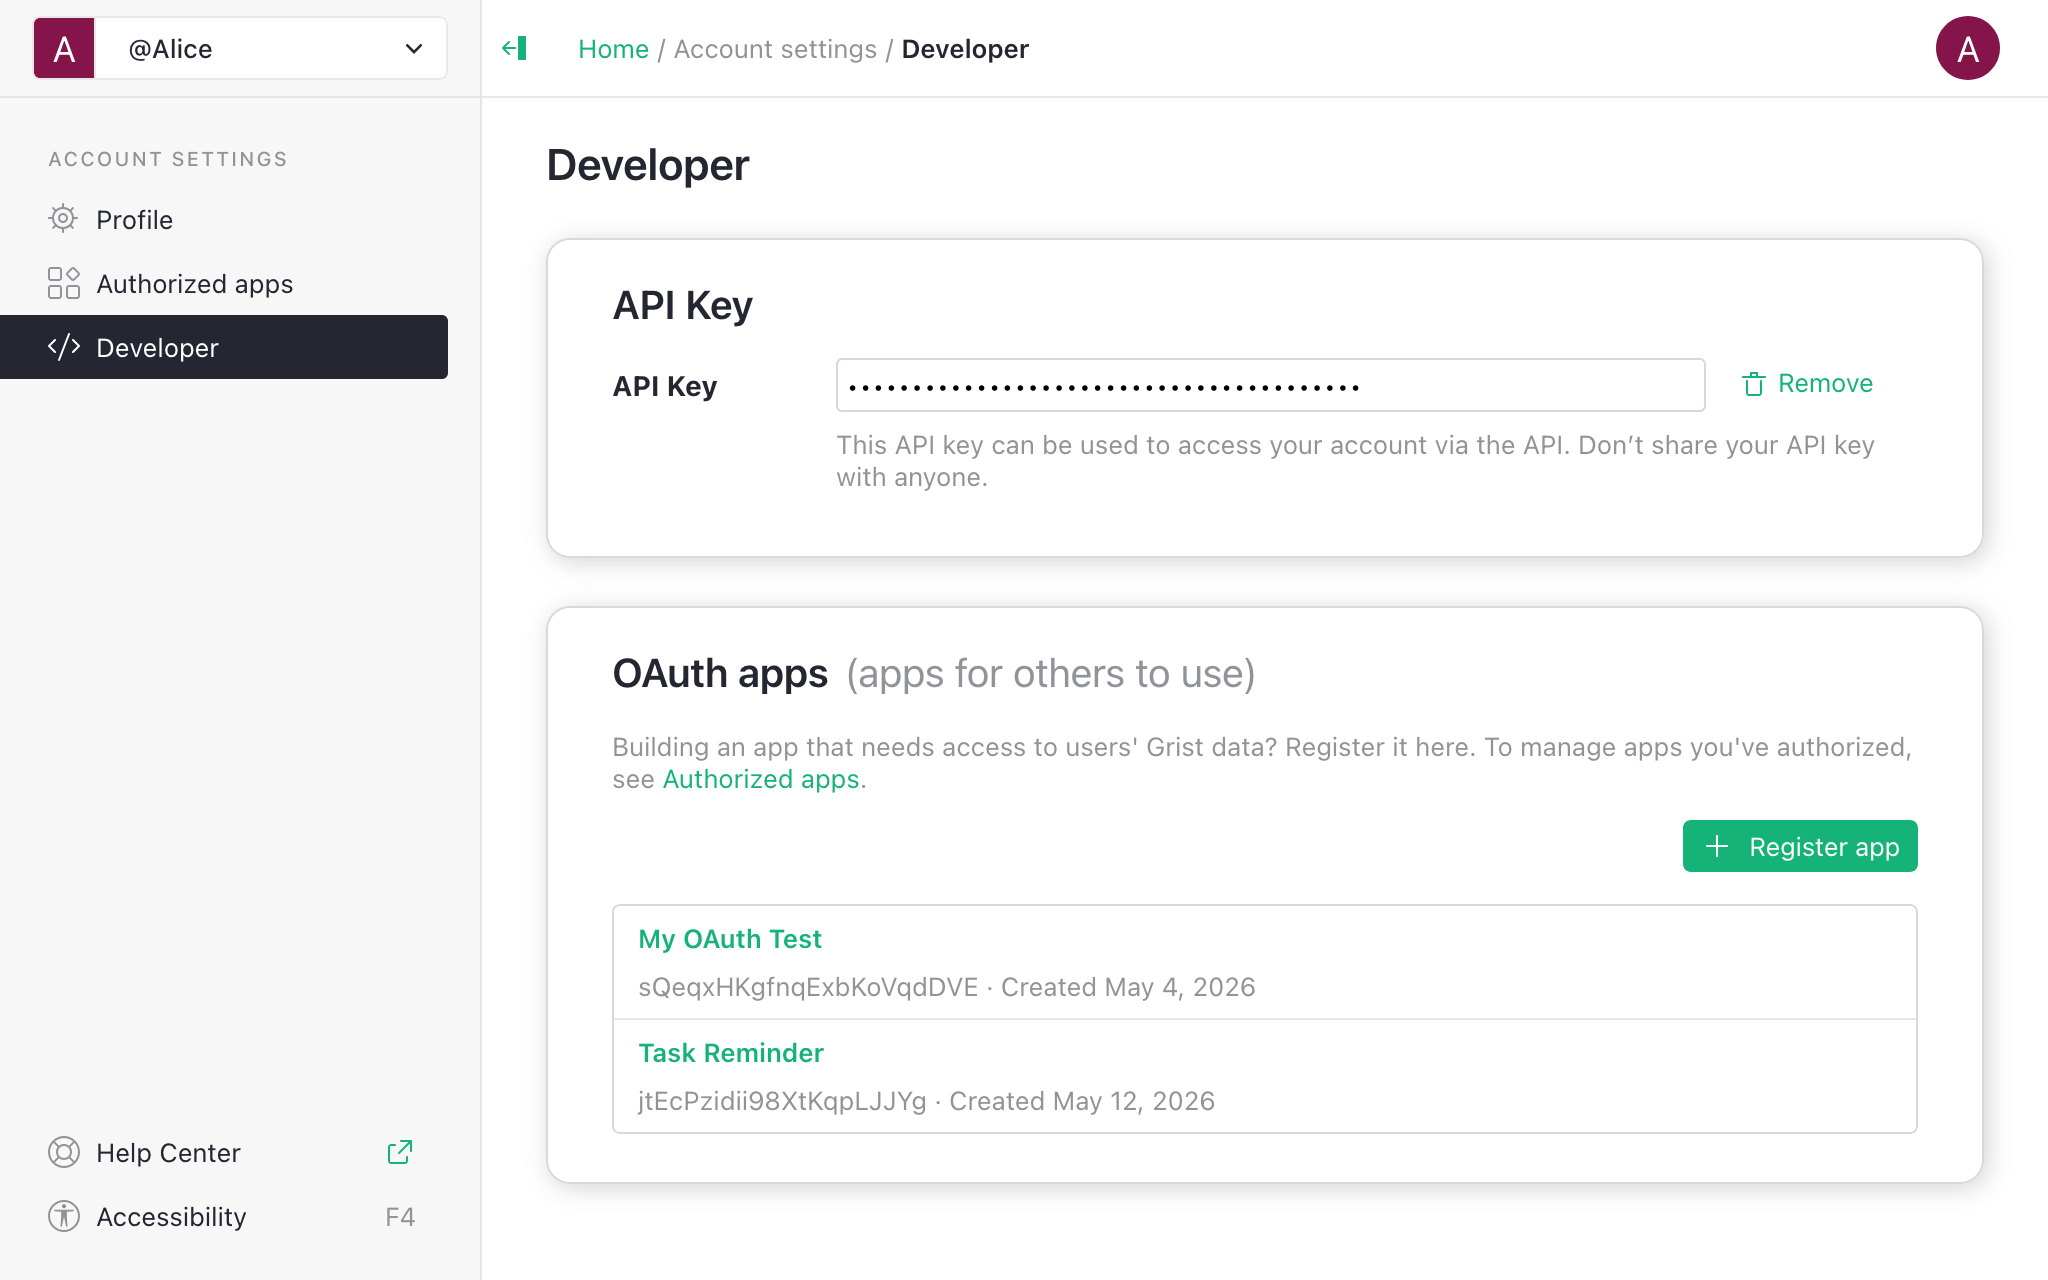
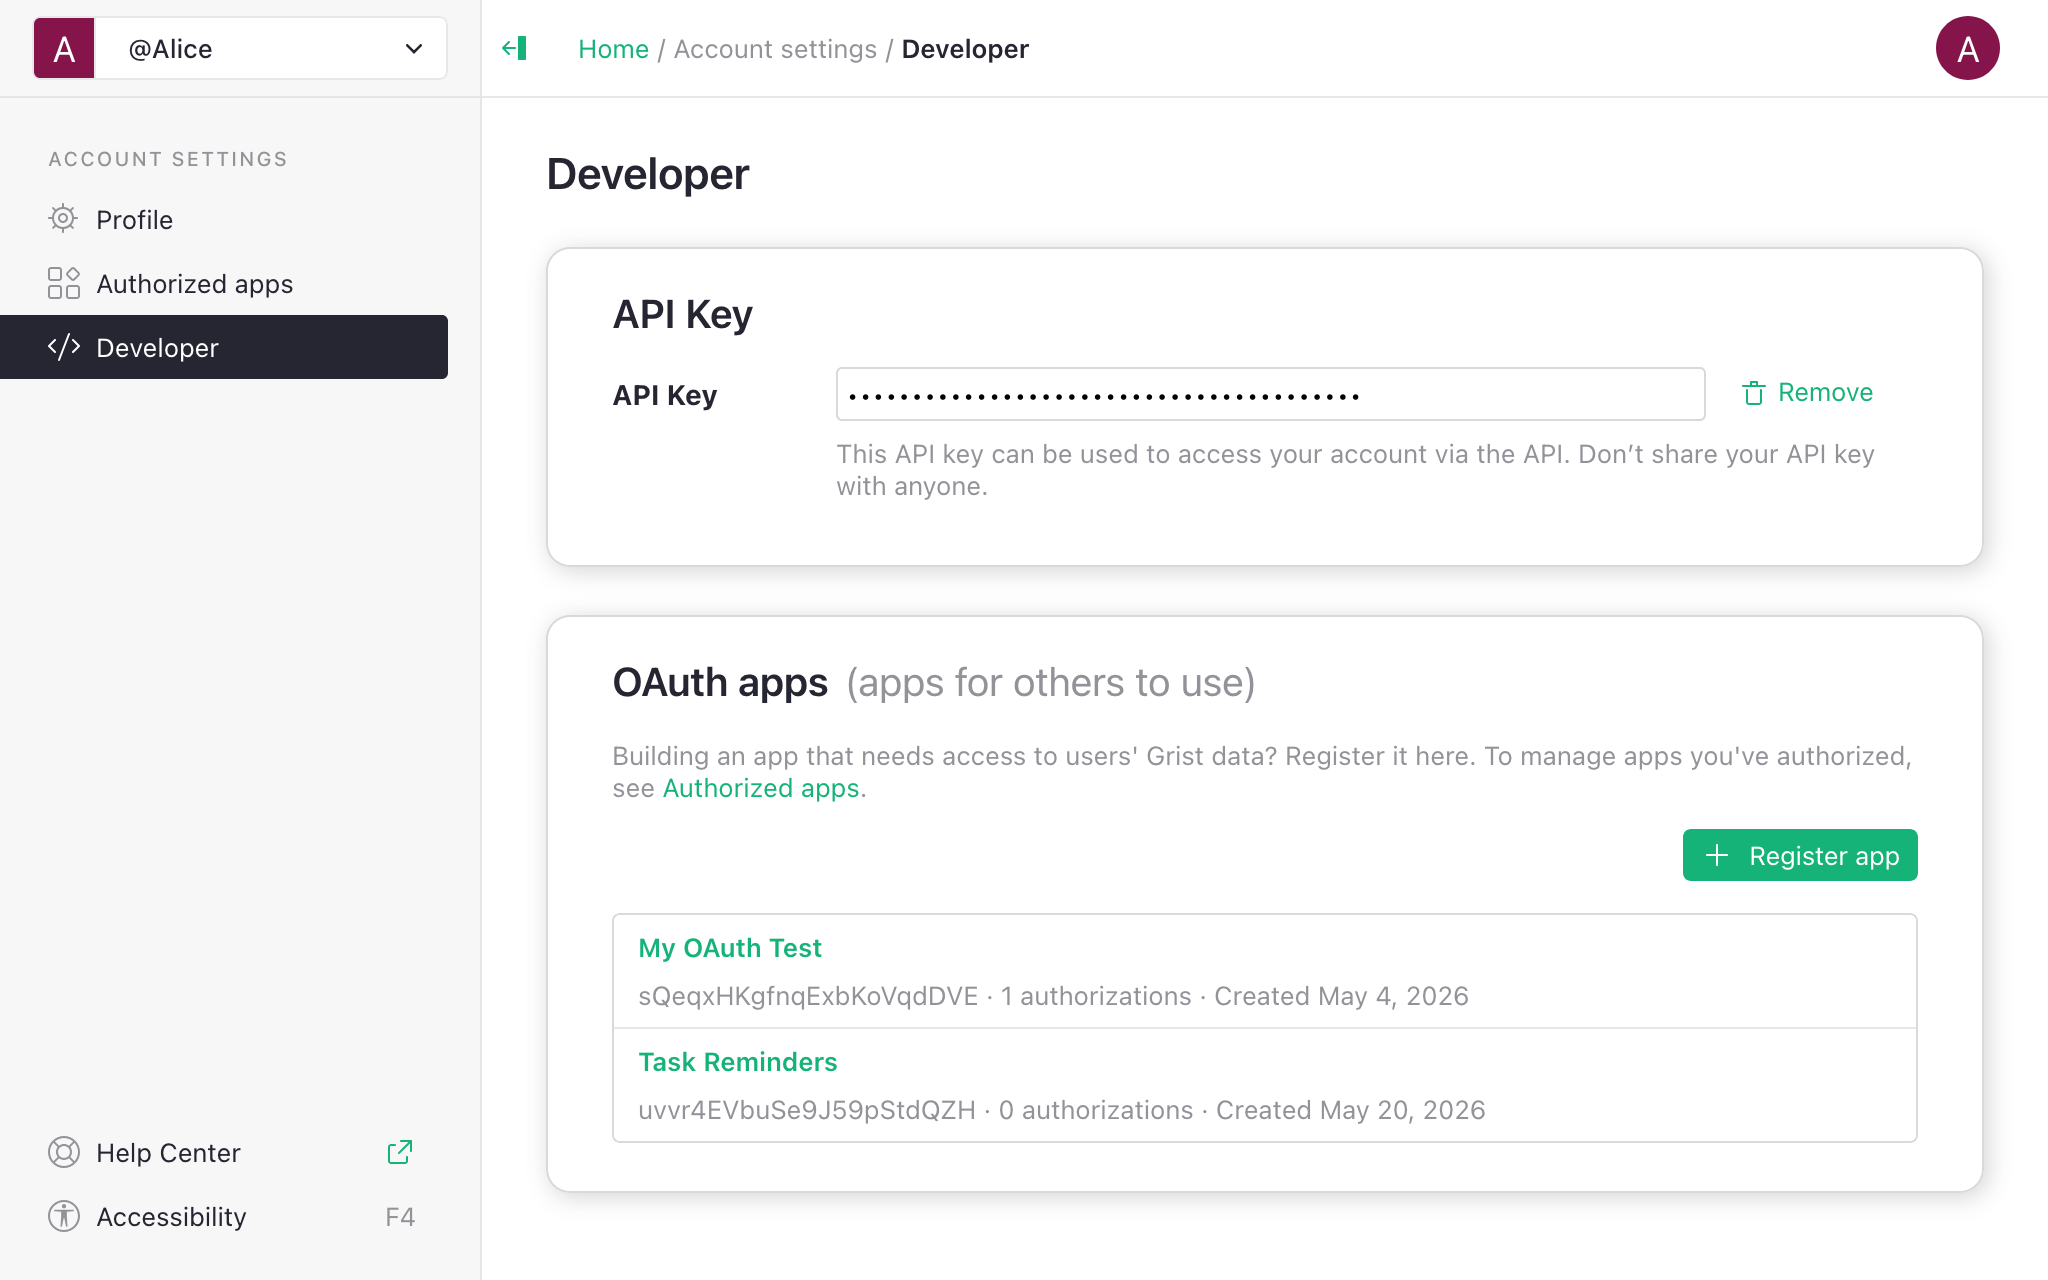
Update screenshots that have changed; update text to explain recently added scopes and endpoints

diff --git a/help/en/docs/oauth-apps.md b/help/en/docs/oauth-apps.md
@@ -64,14 +64,16 @@ Click **Register app** and fill in:
 - **Application name** — shown on the consent screen.
 - **Redirect URI** — where users return after authorizing. Must use
   `https://` protocol, but `http://` is allowed for the `localhost` domain.
+- **Scopes** -- what permissions your app is allowed to request. This lets you apply the
+  principle of least privilege and limit what the app can do even if it's compromised.
 
-*![Register-app form](images/oauth-apps/register-app.png)*
+<span class="screenshot-large">*![Register-app form](images/oauth-apps/register-app.png)*</span>
 {: .screenshot-half}
 
 These are the minimum properties needed to register an app. After registering, copy the **client
 ID** and **client secret**. The secret is shown once.
 
-After this first step, you are taken to the app's settings page, where you should configure other
+After this first step, you are taken to the app's settings page, where you can configure other
 properties of the app:
 
 - **Application URI** -- the app URL shown to users. It defaults to the origin of the 'Redirect
@@ -80,14 +82,8 @@ properties of the app:
   starts the flow, the redirect URI must match one of these exactly.
 - **Contact email** and **Description** -- informational fields to explain to users what app they
   are authorizing and how to get support for it.
-
-The last, but functionally critical, piece is:
-- **Scopes** -- what permissions your app is allowed to request. You may enable all scopes, or any
-  subset. This is a chance to limit what the app can do, even if it's compromised. It's a good
-  idea to follow the principle of least privilege.
-
-  You must select at least one scope. None are selected by default, and without scopes the app has
-  nothing to request on the consent screen and will not work.
+- **Scopes** -- you can change the scopes you originally set. You may enable all scopes, or any
+  subset, but you must include at least one.
 
 ![App settings page](images/oauth-apps/app-settings.png)
 
@@ -102,6 +98,7 @@ If you make changes, don't forget to save using the 'Save changes' button at the
 | <nobr>`doc.schema:write`</nobr> | Update document structure and formulas. |
 | `doc:download` | Download the full document. |
 | `doc:webhooks` | Manage [webhooks](webhooks.md). |
+| <nobr>`user.profile:read`</nobr> | See the user's name, email address, and profile info. |
 | <nobr>`offline_access`</nobr> | Issue a refresh token. Requires `prompt=consent` on the authorization request. |
 
 [Access rules](access-rules.md) still apply in all cases: an authorized app sees and changes only
@@ -121,17 +118,25 @@ integrations. Endpoints not listed are not available to use with OAuth tokens.
 | Path | Scopes to read | Scopes to update |
 |---|---|---|
 | `/api/docs/{docId}/tables` | `doc:read` | `doc.schema:write` |
-| `/api/docs/{docId}/tables/{tableId}/columns*` | `doc:read` | `doc.schema:write` |
-| `/api/docs/{docId}/tables/{tableId}/records*` | `doc:read` | `doc:write` |
+| <nobr>`/api/docs/{docId}/tables/{tableId}/columns*`</nobr> | `doc:read` | `doc.schema:write` |
+| <nobr>`/api/docs/{docId}/tables/{tableId}/records*`</nobr> | `doc:read` | `doc:write` |
 | `/api/docs/{docId}/attachments*` | `doc:read` | `doc:write` |
-| `/api/docs/{docId}/download/*` (csv, xlsx, ...) | `doc:read` | — |
+| <nobr>`/api/docs/{docId}/download/*` (csv, xlsx, ...)</nobr> | `doc:read` | — |
 | `/api/docs/{docId}/download` | `doc:download` | — |
 | `/api/docs/{docId}/webhooks*` | `doc:webhooks` | `doc:webhooks` |
+| `/api/orgs` | `doc*` | — |
+| `/api/orgs/{orgId}/workspaces` | `doc*` | — |
+| `/api/workspaces/{wsId}/docs` | — | `doc:write` + `doc.schema:write` |
+| `/api/profile/user` | `user.profile:read` | — |
 
-Endpoints for exporting in tabular format (CSV, XLSX, etc.) respect access rules and only require
-`doc:read` scope. The endpoint to download the full `.grist` document file allows a document owner
-to bypass access rules, and so requires a separate scope. It may be useful for automating offsite
-backups.
+Any doc-level scope is enough to list orgs (personal and team sites) and to list the contents of
+the org (workspace and documents). If the user granted access to a limited set of resources, the
+app will only see those.
+
+Note that the endpoints for exporting in tabular format (CSV, XLSX, etc.) respect access rules and
+only require `doc:read` scope. The endpoint to download the full `.grist` document file allows a
+document owner to bypass access rules, and so requires a separate scope. It may be useful for
+automating offsite backups.
 
 ## Managing the app
 